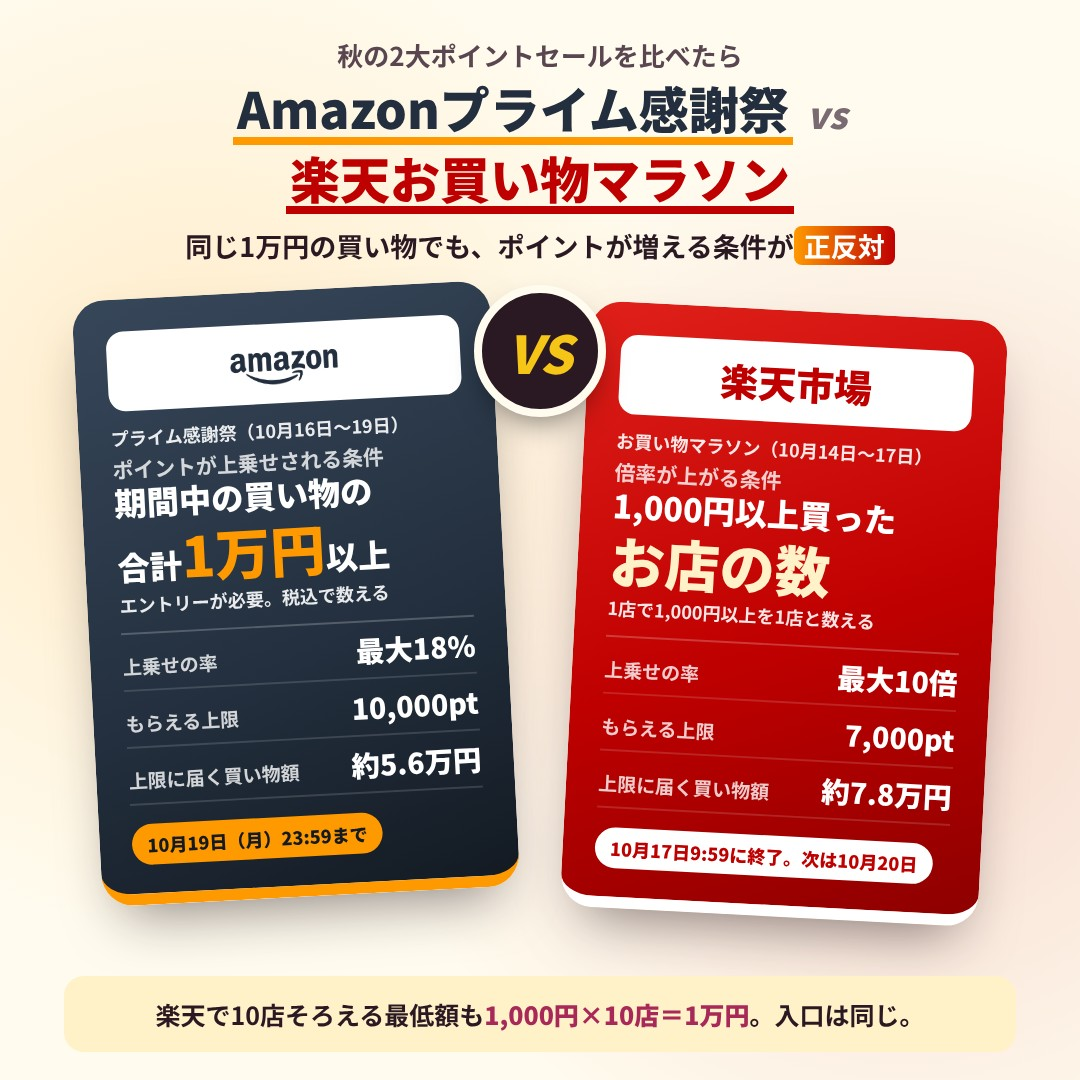
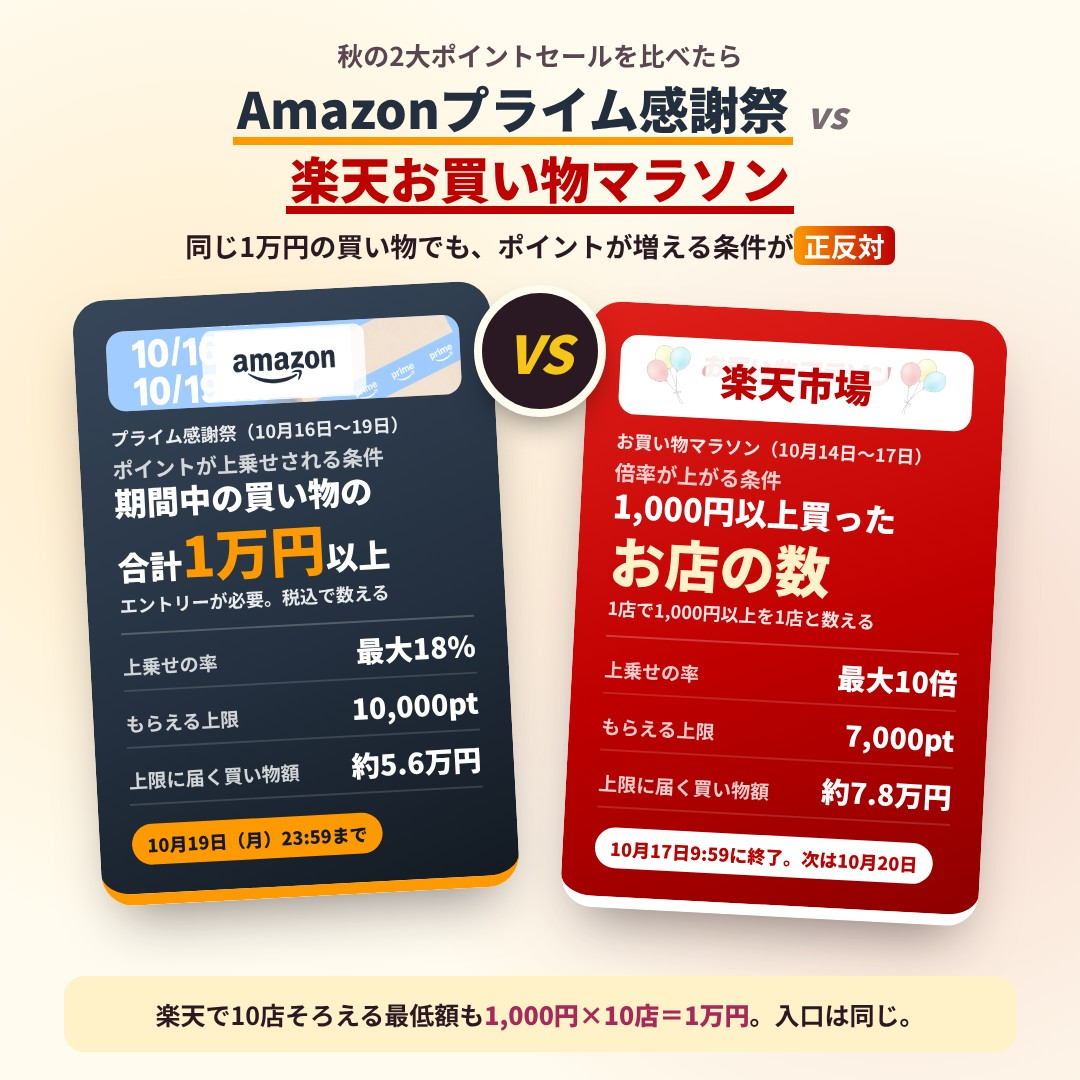
X 告知: 感謝祭の 1 枚目、ロゴの札に公式キャンペーン画像を薄く敷く（コメント 1 件）／スキルに既定として記録
Claude-Session: https://claude.ai/code/session_01H2JQqdMCeKNiMVUTrAyX2t

Changed region(s): [[0.0917, 0.275, 0.4278, 0.3972], [0.5806, 0.3056, 0.6417, 0.3667], [0.825, 0.3361, 0.8861, 0.3667]]

diff --git a/scripts/image-review/page.html b/scripts/image-review/page.html
@@ -426,7 +426,7 @@
       key: "prime", title: "プライム感謝祭 vs 楽天（秋）", slug: "prime-sale-vs-rakuten-autumn-2026",
       attach: "[1/2]（4枚）",
       images: [
-        { file: "1-deadline.jpg",  name: "1枚目", cap: "Amazonプライム感謝祭 vs 楽天お買い物マラソン｜見出しで2つのセールの比較だと分かるように（10/17 23時のコメント）" },
+        { file: "1-deadline.jpg",  name: "1枚目", cap: "Amazonプライム感謝祭 vs 楽天お買い物マラソン｜ロゴの札に公式キャンペーン画像を薄く（10/17 23時半のコメント）" },
         { file: "2-rules.jpg",     name: "2枚目", cap: "同じ商品7つ｜Amazon・楽天7.3倍・楽天1倍の値段−ポイント" },
         { file: "3-which.jpg",     name: "3枚目", cap: "倍率で勝ち負けが入れ替わる（ドライヤー）" },
         { file: "4-next.jpg",      name: "4枚目", cap: "Amazonはエントリー、楽天市場は10月20日" }

diff --git a/.claude/skills/x-post-images/SKILL.md b/.claude/skills/x-post-images/SKILL.md
@@ -331,6 +331,7 @@ cat public/images/<slug>/photos/_manifest.json
 | 2026-10-17 | **1枚目の画像は、楽天とAmazonが対比しているような構成の画像にして／両方のサービスのカラー反映して／雑に二等分するんじゃなくて、ちゃんとデザイン性高く設計してね** | **2 社の比較記事の 1 枚目は「VS カード」にする。** 帯をやめ（`noHeader`）、上に主張 1 行、下に**2 枚のブランドカードを左右から少し傾けて重ね、中央に VS の丸**を置いた。地はブランド色（Amazon は濃紺 `#232F3E` ＋オレンジ `#FF9900` の縁、楽天はクリムゾン `#BF0000` ＋白の縁）、ロゴは白いチップに載せて改変しない。**両カードは同じ物差し**（見ているもの／還元／上限／頭打ち／期限）で行をそろえる。**VS の丸を数字の上に置くと読めなくなる**（1 回目で「最大18%」に重なった）ので、ロゴの高さに置く。作りは `ops/data/x-cards/prime-sale-vs-rakuten-autumn-2026.panels.json` の 1 枚目 |
 | 2026-10-17 | **1万円ってなんのこと？／見ているのは？主語は誰？／買い足しってどういう意味？／具体的にこの商品を買ったときにAmazonと楽天でそれぞれどうなるか／楽天市場ね 漢字が違うので直して**（感謝祭の画像 4 枚に 8 件） | **画像の文字も主語と「何の」を書く**（x-post-copy §1-D と同じ）。比較の画像は**実在の同じ商品の値段とポイント**で組み直した（x307 で Mac が読んだ表示・時刻を画像に書く）。**ロゴの色を変えない**（白抜きにするため `filter: invert` を当てたら白い四角になった。そもそも改変にあたる）→ 暗い地には白い台に載せる。**楽天市場のロゴは台湾版「樂天市場」だった**ので外し、正しいロゴが取れるまで文字で置いた。**楽天トップのヘッダーを撮ると、ログイン中の氏名と保有ポイントが写る**（x307 で公開リポジトリに載せてしまった）→ 撮るのは要素だけ |
 | 2026-10-17 | **Amazonプライム感謝祭と楽天市場のお買い物マラソンを比較したんでしょ？ちゃんとそれをわかりやすく伝えてよ／文脈の説明をサボらないで／タイトルのセンスがないよ**（1 枚目の見出し） | **比較の 1 枚目は、見出しで「何と何を比べたか」を正式名で言う。**「ポイントの付き方が正反対」だけでは、何のイベントの話か分からない。見出しを「秋の2大ポイントセールを比べたら／Amazonプライム感謝祭 vs 楽天お買い物マラソン」にし、両方をブランド色の下線で並べ、主張（条件が正反対）は副題に下げた。**直したのは見出しだけ**（ルール 18） |
+| 2026-10-17 | **このタブのところに薄くプライム感謝祭のキャンペーン画像を透過させて写して／楽天のお買い物マラソンも同じようにやってね／実施してスキル化してね** | **イベント同士を比べるカードは、ロゴの札（タブ）の地に、そのイベントの公式キャンペーン画像を薄く敷く**（既定にする）。取り方：公式ページの `og:image`・大きい `img`・CSS の背景画像を **URL から取る**（x312・x313。**画面は撮らない**）。Amazon は aboutamazon の告知画像、楽天は「お買い物マラソン」の看板画像（`r.r10s.jp/evt/.../kanban/`）。札の中で `opacity:.32〜.38`、ロゴ・文字は白の半透明の座布団に載せて読めるようにする。**カード全体に敷くと、画像の中の大きな文字が本文と重なって読めなくなった**ので札の中だけ。置き場は `public/images/<slug>/x/src/` と `_manifest.json`（取得元 URL・取得日） |
 <!-- 追記はこの表の下に。日付・指摘・反映 の 3 列を必ず埋める -->
 
 ## 7. 関連
